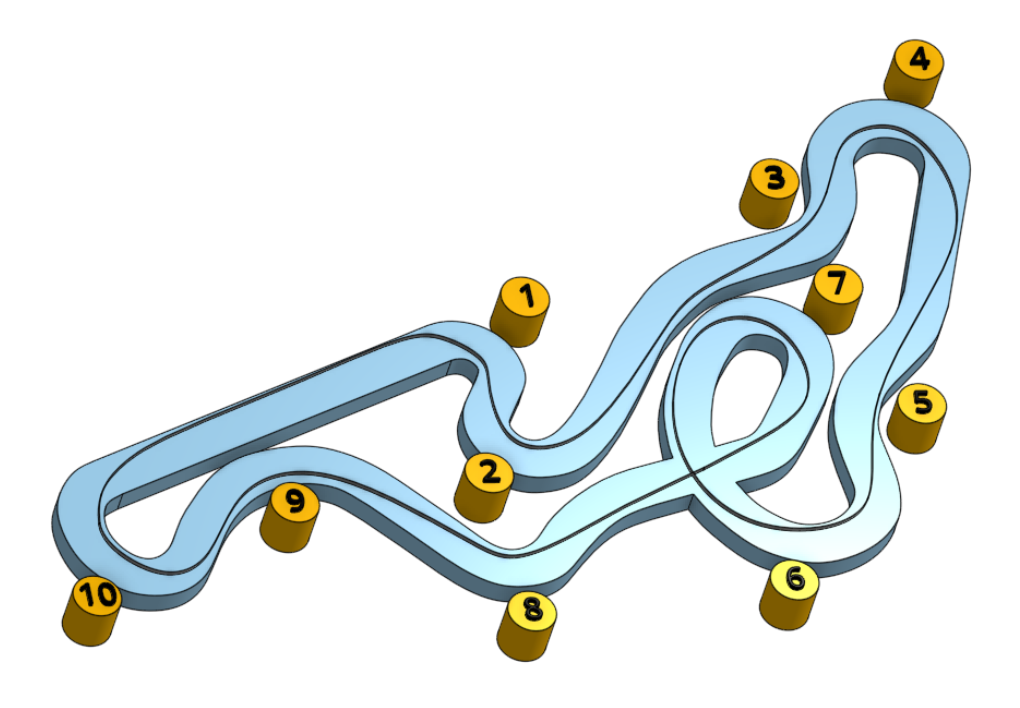
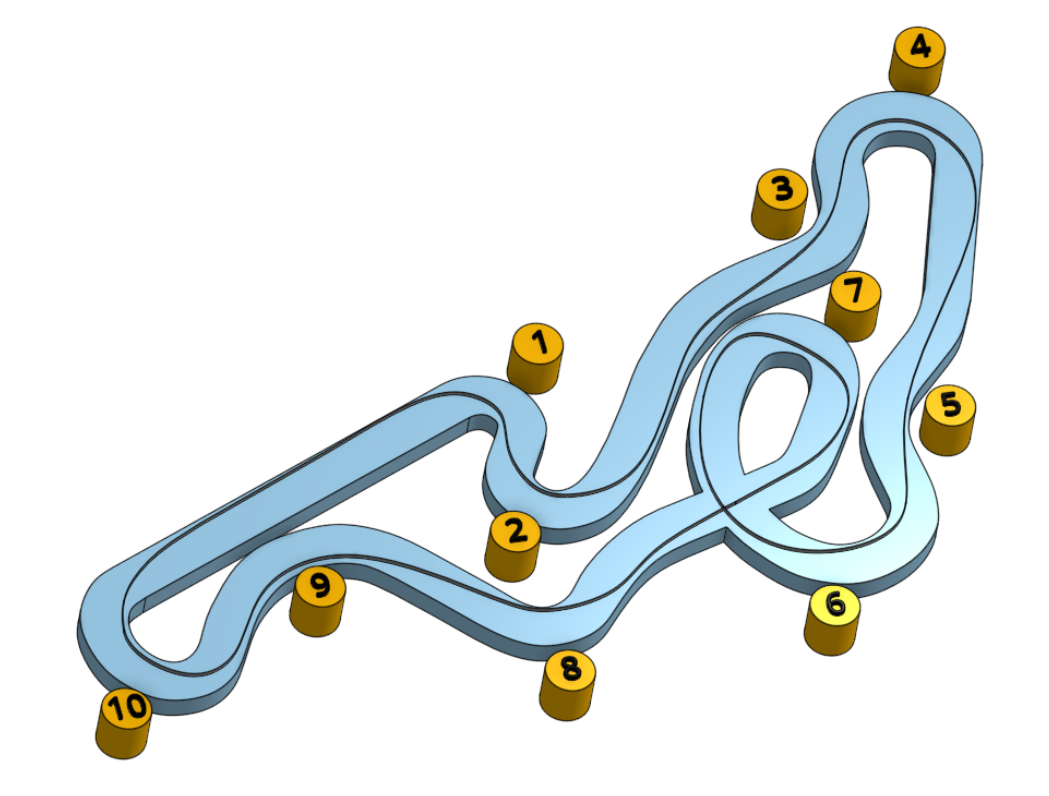
Slight tweak to racing line. Added some extra tips gleaned from drivers on the day.

Changed region(s): [[0.0304, 0.0311, 0.9725, 0.9633]]

diff --git a/Brighton/README.md b/Brighton/README.md
@@ -16,4 +16,11 @@ Here's an example of the driving line, distilled from a [video review of the cir
 * The longest 'straight' is from corner 7 to corner 10. The earlier you start the straight, the faster you will be by the end. Corners 8 and 9 can be taken flat out.
 * Keep momentum as high as possible. Sodi karts will bog down at low speeds.
 * While the starting grid is on the straight leading to turn 1, the finish line is just after turn 2.
-* Be careful into turn 6. There's a drainage grate in the chevrons on the inside of the turn that you really don't want to hit.
+* Be careful into turn 6. There's a drainage grate in the chevrons on the inside of the turn that you really don't want to hit. Either straddle it or avoid it completely.
+* At the start of the race here, the karts are on the starting line just before turn 1. In the distance, at the finish line just after turn 2, a red light switches to green to signal the start of the race. No overtaking until you cross the finish line.
+* Use the run-off areas at turns 2, 4 and 7 to drive a straighter line and hold on to momentum. Oversteering to try to keep completely on the track can slow the kart down.
+* At corner 10 you can get back on the power quite early as there's a large run off area exiting corner 10 onto the straight.
+
+## Timing
+
+* In 2021, the event was scheduled to start at 12:45. Competitors fought for a place in the A or B group and we had two races for A and two races for B; 5 mins practice to qualify and two 20 minute races. Races finished around 4 o'clock and everyone had left the venue by around 4:30.
